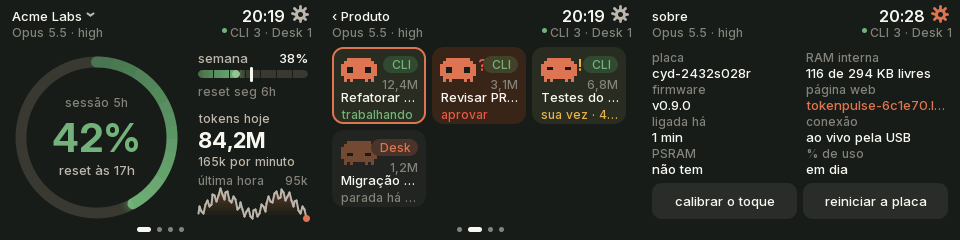
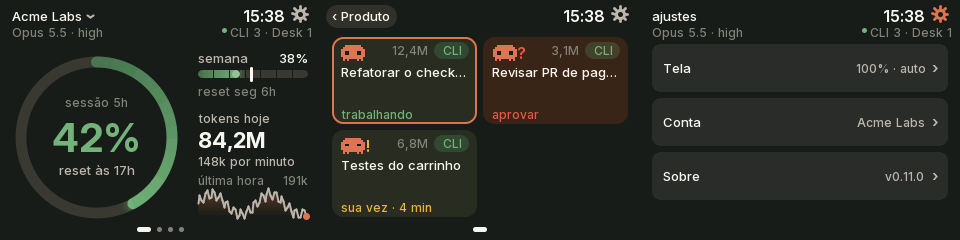
docs: capturas da AMOLED 2.16 e da 2432S028R, e a placa nova no site
- README e site com a Waveshare AMOLED 2.16: principal, workspaces,
  sessões, o descanso e os ajustes, com dados fictícios (daemon em --demo),
  montados no vidro redondo da placa.
- O site ganha a placa nos seletores, a seção do modelo, o aviso de
  instalação e o tempo de OTA.
- Captura nova da 2432S028R com as sessões em páginas e a lista de ajustes.
- Textos de workspaces, sessões e ajustes descrevem a interface nova.

diff --git a/docs/index.html b/docs/index.html
@@ -136,6 +136,7 @@
   [data-not].off { display: none; }
   span[data-only].on { display: inline; }
   .model img.cfg { max-width: 270px; margin: 20px 0 0; border: 1px solid var(--line); }
+  .model img.wide { margin: 20px 0 0; border-radius: 0; }
   footer { padding: 40px 0 60px; border-top: 1px solid var(--line); color: var(--dim); font-size: 14px; }
   footer .wrap { display: flex; flex-wrap: wrap; gap: 12px 24px; align-items: center; }
 </style>
@@ -177,13 +178,13 @@
     <p class="sub">Arraste para os lados para trocar de tela. Toque para abrir detalhes. Da borda de baixo para cima, volta para a principal de qualquer lugar.</p>
     <div class="grid">
       <div class="shot"><img src="screenshots/01-principal.png" alt="Tela principal" loading="lazy"><div><h3>Principal</h3><p>A janela de 5 h no anel, que muda de cor com o uso: verde, amarelo a 70%, laranja a 80%, vermelho a 90%. A semana com o ritmo esperado, tokens do dia, por minuto e a última hora.</p></div></div>
-      <div class="shot"><img src="screenshots/02-workspaces.png" alt="Sessões agrupadas por workspace" loading="lazy"><div><h3>Sessões por workspace</h3><p>Os workspaces do <a href="https://herdr.dev">herdr</a>, com quantas sessões estão trabalhando, esperando você ou na sua vez. Sem herdr, as sessões do terminal e do Desktop se agrupam por projeto.</p></div></div>
-      <div class="shot"><img src="screenshots/03-sessoes.png" alt="Cartões de sessão com mascote" loading="lazy"><div><h3>Sessões</h3><p>Cada sessão com um mascote que anda trabalhando, pula na sua vez, treme quando precisa de aprovação e dorme parada. Toque para trazê-la à frente no Mac.</p></div></div>
+      <div class="shot"><img src="screenshots/02-workspaces.png" alt="Sessões agrupadas por workspace" loading="lazy"><div><h3>Sessões por workspace</h3><p>Os workspaces do <a href="https://herdr.dev">herdr</a> em páginas, com quantos cartões a tela comporta. A pasta tem a cor do estado mais urgente. O Claude Desktop fica num workspace fixo no fim e, com uma sessão só, o cartão já é ela. Sem herdr, as sessões se agrupam por projeto.</p></div></div>
+      <div class="shot"><img src="screenshots/03-sessoes.png" alt="Cartões de sessão com mascote" loading="lazy"><div><h3>Sessões</h3><p>As sessões de um workspace, em páginas e por prioridade: aprovar, trabalhando, sua vez, paradas. Cada uma com um mascote no estado dela. O título "‹ workspace" volta para a lista; toque num cartão para trazer a sessão à frente no Mac.</p></div></div>
       <div class="shot"><img src="screenshots/04-modelos.png" alt="Modelos usados hoje" loading="lazy"><div><h3>Modelos</h3><p>Os modelos usados hoje e a fatia de cada um, com entrada, saída e cache.</p></div></div>
       <div class="shot"><img src="screenshots/05-modelo.png" alt="Detalhe de um modelo" loading="lazy"><div><h3>Detalhe do modelo</h3><p>Composição dos tokens, custo equivalente na API e os projetos que mais usaram.</p></div></div>
       <div class="shot"><img src="screenshots/06-historico.png" alt="Histórico de 14 dias" loading="lazy"><div><h3>Histórico</h3><p>Tokens e custo por dia nas últimas duas semanas. Toque numa barra para ver o dia.</p></div></div>
       <div class="shot"><img src="screenshots/10-esgotado.png" alt="Janela esgotada com sugestão de trocar de org" loading="lazy"><div><h3>Limite esgotado</h3><p>Com outra org salva no <a href="https://github.com/realiti4/claude-swap">claude-swap</a>, a tela sugere a troca para a de menor uso.</p></div></div>
-      <div class="shot"><img src="screenshots/07-ajustes.png" alt="Ajustes" loading="lazy"><div><h3>Ajustes</h3><p>Brilho, escurecer quando parada, tema que segue o macOS, tela em pé ou deitada e ocultar o custo. Pela engrenagem ao lado do relógio.</p></div></div>
+      <div class="shot"><img src="screenshots/07-ajustes.png" alt="Ajustes" loading="lazy"><div><h3>Ajustes</h3><p>Pela engrenagem ao lado do relógio, numa lista de grupos como no celular: Tela, Som e Descanso nas placas que têm, Conta e Sobre.</p></div></div>
       <div class="shot"><img src="screenshots/00-boot.png" alt="Tela de abertura com o logo" loading="lazy"><div><h3>Abertura</h3><p>E uma tela de diagnóstico que diz o que falta quando o Mac some: cabo, daemon ou dados.</p></div></div>
     </div>
     <div class="strip"><h3>Deitada</h3><p>Em Ajustes → Tela → horizontal, cada tela ganha uma versão deitada: o anel à esquerda, as sessões em 3 colunas e o detalhe do modelo com os projetos ao lado.</p><img src="screenshots/deitada.png" alt="As telas deitadas: principal, sessões em 3 colunas e detalhe do modelo" loading="lazy"></div>
@@ -250,6 +251,7 @@ flowchart LR
       <button type="button" data-board="guition-jc3248w535" aria-pressed="true">Guition JC3248W535</button>
       <button type="button" data-board="cyd-2432s028r" aria-pressed="false">ESP32-2432S028R</button>
       <button type="button" data-board="waveshare-s3-lcd-147b" aria-pressed="false">Waveshare ESP32-S3-LCD-1.47B</button>
+      <button type="button" data-board="waveshare-amoled-216" aria-pressed="false">Waveshare AMOLED 2.16</button>
       <button type="button" data-board="smalltv-ultra" aria-pressed="false">GeekMagic SmallTV-Ultra</button>
     </div>
 
@@ -271,7 +273,7 @@ flowchart LR
     </div>
 
     <div class="model" data-only="cyd-2432s028r">
-      <img src="screenshots/cyd-2432s028r.png" alt="ESP32-2432S028R deitada: principal, sessões e Sobre com o botão de calibrar o toque" loading="lazy">
+      <img src="screenshots/cyd-2432s028r.png" alt="ESP32-2432S028R deitada, com dados fictícios: principal, sessões de um workspace e a lista de ajustes" loading="lazy">
       <div>
         <h3>ESP32-2432S028R</h3>
         <dl>
@@ -279,7 +281,7 @@ flowchart LR
           <dt>Chip</dt><dd>ESP32-D0WD-V3: 4 MB de flash, sem PSRAM (a tela é desenhada em duas faixas)</dd>
           <dt>Tela</dt><dd>2,8" 240×320, ST7789</dd>
           <dt>Toque</dt><dd>resistivo XPT2046, com a caneta; calibração na primeira vez</dd>
-          <dt>Interface</dt><dd>todas as telas no layout médio, em 4 posições (0°, 90°, 180°, 270°) para o cabo sair por qualquer lado; LED RGB na cor da faixa, vermelho piscando quando uma sessão pede aprovação</dd>
+          <dt>Interface</dt><dd>todas as telas no layout médio, em 4 posições, escolhidas pelo lado do cabo USB; sessões em cartões compactos, 6 por página em pé e 4 deitada; LED RGB na cor da faixa, vermelho piscando quando uma sessão pede aprovação</dd>
           <dt>Página web</dt><dd>a mesma da Guition, com o WiFi ligado só quando pedido em Ajustes → Sobre</dd>
           <dt>Atualização</dt><dd>OTA pela USB (ponte CH340) em ~40 s</dd>
         </dl>
@@ -298,6 +300,24 @@ flowchart LR
           <dt>Interface</dt><dd>layout compacto (principal, modelos, projetos); gira sozinha pelo acelerômetro; LED RGB na cor da faixa</dd>
           <dt>Atualização</dt><dd>OTA pela USB em ~15 s</dd>
         </dl>
+      </div>
+    </div>
+
+    <div class="model" data-only="waveshare-amoled-216">
+      <img src="screenshots/waveshare-amoled-216.png" alt="Waveshare AMOLED 2,16 com dados fictícios: principal, workspaces e as sessões de um workspace" loading="lazy">
+      <div>
+        <h3>Waveshare ESP32-S3-Touch-AMOLED-2.16</h3>
+        <dl>
+          <dt>Chip</dt><dd>ESP32-S3R8: 16 MB de flash, 8 MB de PSRAM</dd>
+          <dt>Tela</dt><dd>2,16" AMOLED 480×480 com cantos redondos, CO5300 por QSPI, a ~29 quadros por segundo</dd>
+          <dt>Toque</dt><dd>capacitivo, com o dedo</dd>
+          <dt>Interface</dt><dd>todas as telas no layout grande; gira sozinha pelo acelerômetro; descanso contra marcas no vidro</dd>
+          <dt>Som</dt><dd>alto-falante: um som quando uma sessão pede aprovação, com 8 opções e volume em Ajustes → Som</dd>
+          <dt>Botões</dt><dd>KEY3 troca de tela; PWR entra e sai do descanso e, segurado por 2 s, desliga a placa</dd>
+          <dt>Atualização</dt><dd>OTA pela USB em ~25 s</dd>
+        </dl>
+        <p class="note">Parada, a tela troca o painel por versões resumidas em fundo preto, uma a cada 15 s e cada uma num lugar novo. Em Ajustes → Descanso você escolhe quais telas entram e o relógio com ou sem segundos.</p>
+        <img class="wide" src="screenshots/amoled-descanso.png" alt="O descanso da AMOLED: relógio flip, anel de uso, sessões, modelos e 14 dias" loading="lazy">
       </div>
     </div>
 
@@ -334,11 +354,13 @@ flowchart LR
         <button type="button" data-board="guition-jc3248w535" aria-pressed="true">Guition JC3248W535</button>
         <button type="button" data-board="cyd-2432s028r" aria-pressed="false">ESP32-2432S028R</button>
         <button type="button" data-board="waveshare-s3-lcd-147b" aria-pressed="false">Waveshare 1.47B</button>
+        <button type="button" data-board="waveshare-amoled-216" aria-pressed="false">Waveshare AMOLED 2.16</button>
         <button type="button" data-board="smalltv-ultra" aria-pressed="false">SmallTV-Ultra</button>
       </div>
       <div class="callout on" data-only="guition-jc3248w535">A JC3248W535 só passa dados pela USB-C num dos lados do plugue. Se a placa liga mas o Mac não a vê, gire o plugue.</div>
       <div class="callout" data-only="cyd-2432s028r">A ESP32-2432S028R tem touch resistivo: use a caneta que vem com ela. Na primeira vez ela pede quatro toques, um em cada canto, para calibrar. Use um cabo USB que passe dados.</div>
       <div class="callout" data-only="waveshare-s3-lcd-147b">A Waveshare de 1,47" não tem touch: o botão BOOT troca de tela e segurar volta para a principal. Ela gira sozinha pelo acelerômetro.</div>
+      <div class="callout" data-only="waveshare-amoled-216">Mesmo na versão com bateria, a AMOLED 2,16" recebe os dados pelo cabo USB-C ligado ao Mac. Segurar o botão PWR por 2 s desliga a placa.</div>
       <div class="callout" data-only="smalltv-ultra">O SmallTV-Ultra não tem USB de dados: tudo vai pelo WiFi, e o <code>setup.sh</code> não serve para ele. O firmware de fábrica da GeekMagic é substituído e só volta com o <code>.bin</code> dele.</div>
     </div>
     <ol class="steps">
@@ -397,6 +419,7 @@ cd tokenpulse</code></pre></li>
     "guition-jc3248w535": { chip: "esp32s3", ota: 15 },
     "cyd-2432s028r": { chip: "esp32", ota: 40 },
     "waveshare-s3-lcd-147b": { chip: "esp32s3", ota: 15 },
+    "waveshare-amoled-216": { chip: "esp32s3", ota: 25 },
     "smalltv-ultra": { chip: "esp8266", ota: 10 },
   };
   const buttons = document.querySelectorAll(".pick button");

diff --git a/README.md b/README.md
@@ -24,11 +24,11 @@ fazendo e quanto esse uso custaria pela API. Tudo ao vivo, pela USB, sem Wi-Fi.
 | | | |
 |:-:|:-:|:-:|
 | ![Principal](docs/screenshots/01-principal.png) | ![Workspaces](docs/screenshots/02-workspaces.png) | ![Sessões de um workspace](docs/screenshots/03-sessoes.png) |
-| **Principal**: a janela de 5 h no anel (verde, amarelo a 70%, laranja a 80%, vermelho a 90%), a semana com o ritmo esperado, tokens do dia, tokens por minuto e a última hora. | **Sessões por workspace** do [herdr](https://herdr.dev), com quantas estão trabalhando, esperando você ou na sua vez. O workspace em foco no Mac ganha borda laranja. Sem herdr, as sessões vêm dos logs e se agrupam por projeto. | **Sessões** de um workspace, cada uma com um mascote no estado dela: anda trabalhando, pula na sua vez, treme quando precisa de aprovação, dorme parada. A sessão em foco tem borda; tocar num cartão traz a sessão para a frente no Mac (o painel do herdr no seu terminal, ou o Claude Desktop). |
+| **Principal**: a janela de 5 h no anel (verde, amarelo a 70%, laranja a 80%, vermelho a 90%), a semana com o ritmo esperado, tokens do dia, tokens por minuto e a última hora. | **Sessões por workspace** do [herdr](https://herdr.dev), em páginas com quantos cartões a tela comporta: a pasta tem a cor do estado mais urgente e a contagem de quem trabalha, espera você ou está na sua vez. O Claude Desktop fica num workspace fixo no fim; com uma sessão só, o cartão já é ela. Sem herdr, as sessões se agrupam por projeto. | **Sessões** de um workspace, em páginas, por prioridade (aprovar, trabalhando, sua vez, paradas), cada uma com um mascote no estado dela. O título "‹ workspace" volta para a lista; tocar num cartão traz a sessão para a frente no Mac (o painel do herdr no seu terminal, ou o Claude Desktop). |
 | ![Modelos](docs/screenshots/04-modelos.png) | ![Detalhe do modelo](docs/screenshots/05-modelo.png) | ![Histórico](docs/screenshots/06-historico.png) |
 | **Modelos** usados hoje e a fatia de cada um. | **Detalhe do modelo**: entrada, saída e cache, custo equivalente na API e os projetos que mais usaram. | **Histórico** de 14 dias; toque numa barra para ver o dia. |
 | ![Ajustes](docs/screenshots/07-ajustes.png) | ![Trocar de org](docs/screenshots/08-org.png) | ![Sobre](docs/screenshots/09-sobre.png) |
-| **Ajustes** pela engrenagem: brilho, escurecer quando parada, tema (segue o macOS), tela em pé ou deitada, ocultar custo. | **Trocar de org** pelo nome no topo, com o último % de cada uma. Usa o [claude-swap](https://github.com/realiti4/claude-swap) e pede dois toques, porque troca o login de todas as sessões do Mac. | **Sobre**: placa, firmware, memória, conexão, reiniciar e o endereço da página web (toque para abrir o QR). |
+| **Ajustes** pela engrenagem, numa lista de grupos como no celular: Tela (brilho, escurecer, tema, posição, custo), Som e Descanso nas placas que têm, Conta e Sobre. | **Trocar de org** pelo nome no topo, com o último % de cada uma. Usa o [claude-swap](https://github.com/realiti4/claude-swap) e pede dois toques, porque troca o login de todas as sessões do Mac. | **Sobre**: placa, firmware, memória, conexão, reiniciar e o endereço da página web (toque para abrir o QR). |
 
 <p align="center"><img src="docs/screenshots/10-esgotado.png" alt="Janela de 5 h esgotada, com o botão para trocar de org" width="32%"></p>
 
@@ -41,10 +41,19 @@ em 3 colunas e o detalhe do modelo com os projetos ao lado.
 <p align="center"><img src="docs/screenshots/deitada.png" alt="As telas deitadas: principal com o anel à esquerda, sessões em 3 colunas e o detalhe do modelo" width="100%"></p>
 
 **Na ESP32-2432S028R.** A placa de 2,8" (240×320, touch resistivo) roda as mesmas telas num layout
-menor, em 4 posições (Ajustes → Tela: 0°, 90°, 180°, 270°), para o cabo USB sair por qualquer lado. No Sobre fica o
-botão para recalibrar o toque.
+menor, em 4 posições (Ajustes → Tela → lado do cabo USB: embaixo, direita, em cima, esquerda). As sessões vêm em
+cartões compactos, 6 por página em pé e 4 deitada. No Sobre fica o botão para recalibrar o toque.
 
-<p align="center"><img src="docs/screenshots/cyd-2432s028r.png" alt="ESP32-2432S028R deitada: principal, sessões e Sobre com o botão de calibrar o toque" width="100%"></p>
+<p align="center"><img src="docs/screenshots/cyd-2432s028r.png" alt="ESP32-2432S028R deitada, com dados fictícios: principal, sessões de um workspace e a lista de ajustes" width="100%"></p>
+
+**Na Waveshare AMOLED 2,16".** A tela de 480×480 tem cantos redondos: a interface ocupa o quadrado do meio,
+gira sozinha pelo acelerômetro e roda a ~29 quadros por segundo. Parada, ela entra no descanso, que alterna
+versões resumidas das telas (relógio flip, anel de uso, sessões, modelos e 14 dias) num fundo preto, cada uma num
+lugar novo, para o vidro não marcar. Uma sessão pedindo aprovação toca um som.
+
+<p align="center"><img src="docs/screenshots/waveshare-amoled-216.png" alt="Waveshare AMOLED 2,16 com dados fictícios: principal, workspaces e as sessões de um workspace" width="100%"></p>
+<p align="center"><img src="docs/screenshots/amoled-descanso.png" alt="O descanso da AMOLED: relógio flip, anel de uso, sessões, modelos e 14 dias" width="100%"></p>
+<p align="center"><img src="docs/screenshots/amoled-ajustes.png" alt="Ajustes da AMOLED: a lista de grupos e o grupo Descanso, com as telas do descanso" width="66%"></p>
 
 **Alertas.** Quando uma sessão passa a pedir aprovação, a tela abre o workspace dela e o brilho pulsa por 20 s;
 nas placas com LED ele pisca vermelho enquanto houver sessão para aprovar. Cada estado de sessão tem a sua cor:
@@ -263,7 +272,7 @@ Com a placa plugada:
 
 ```bash
 git clone https://github.com/gilsondev/tokenpulse && cd tokenpulse
-./setup.sh cyd-2432s028r      # ou guition-jc3248w535, waveshare-s3-lcd-147b
+./setup.sh cyd-2432s028r      # ou guition-jc3248w535, waveshare-s3-lcd-147b, waveshare-amoled-216
 ```
 
 O `setup.sh` pausa o daemon se ele já roda, acha a porta da placa, grava o firmware do último release pela
